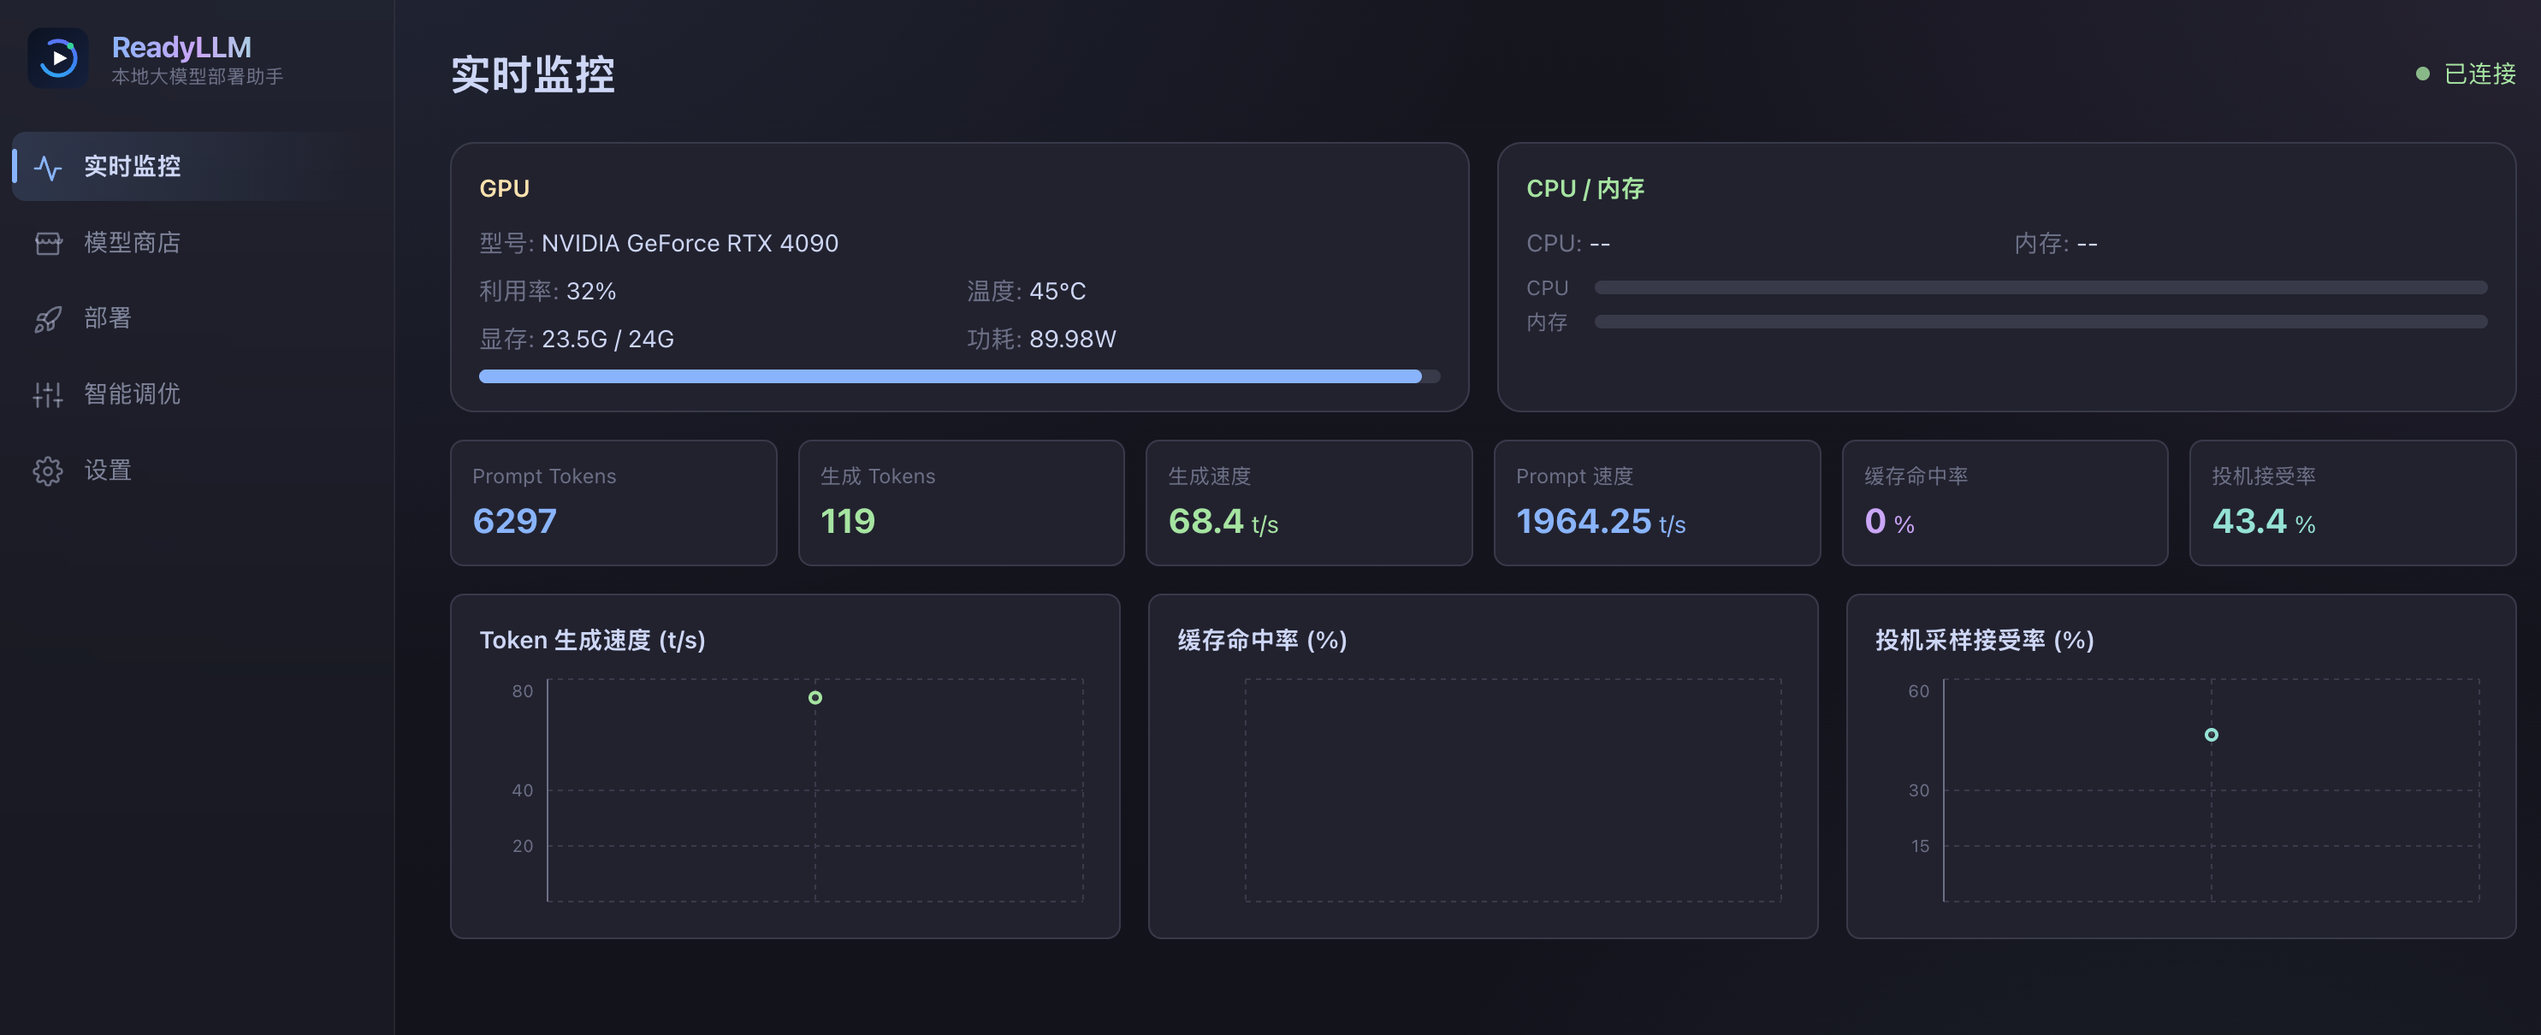
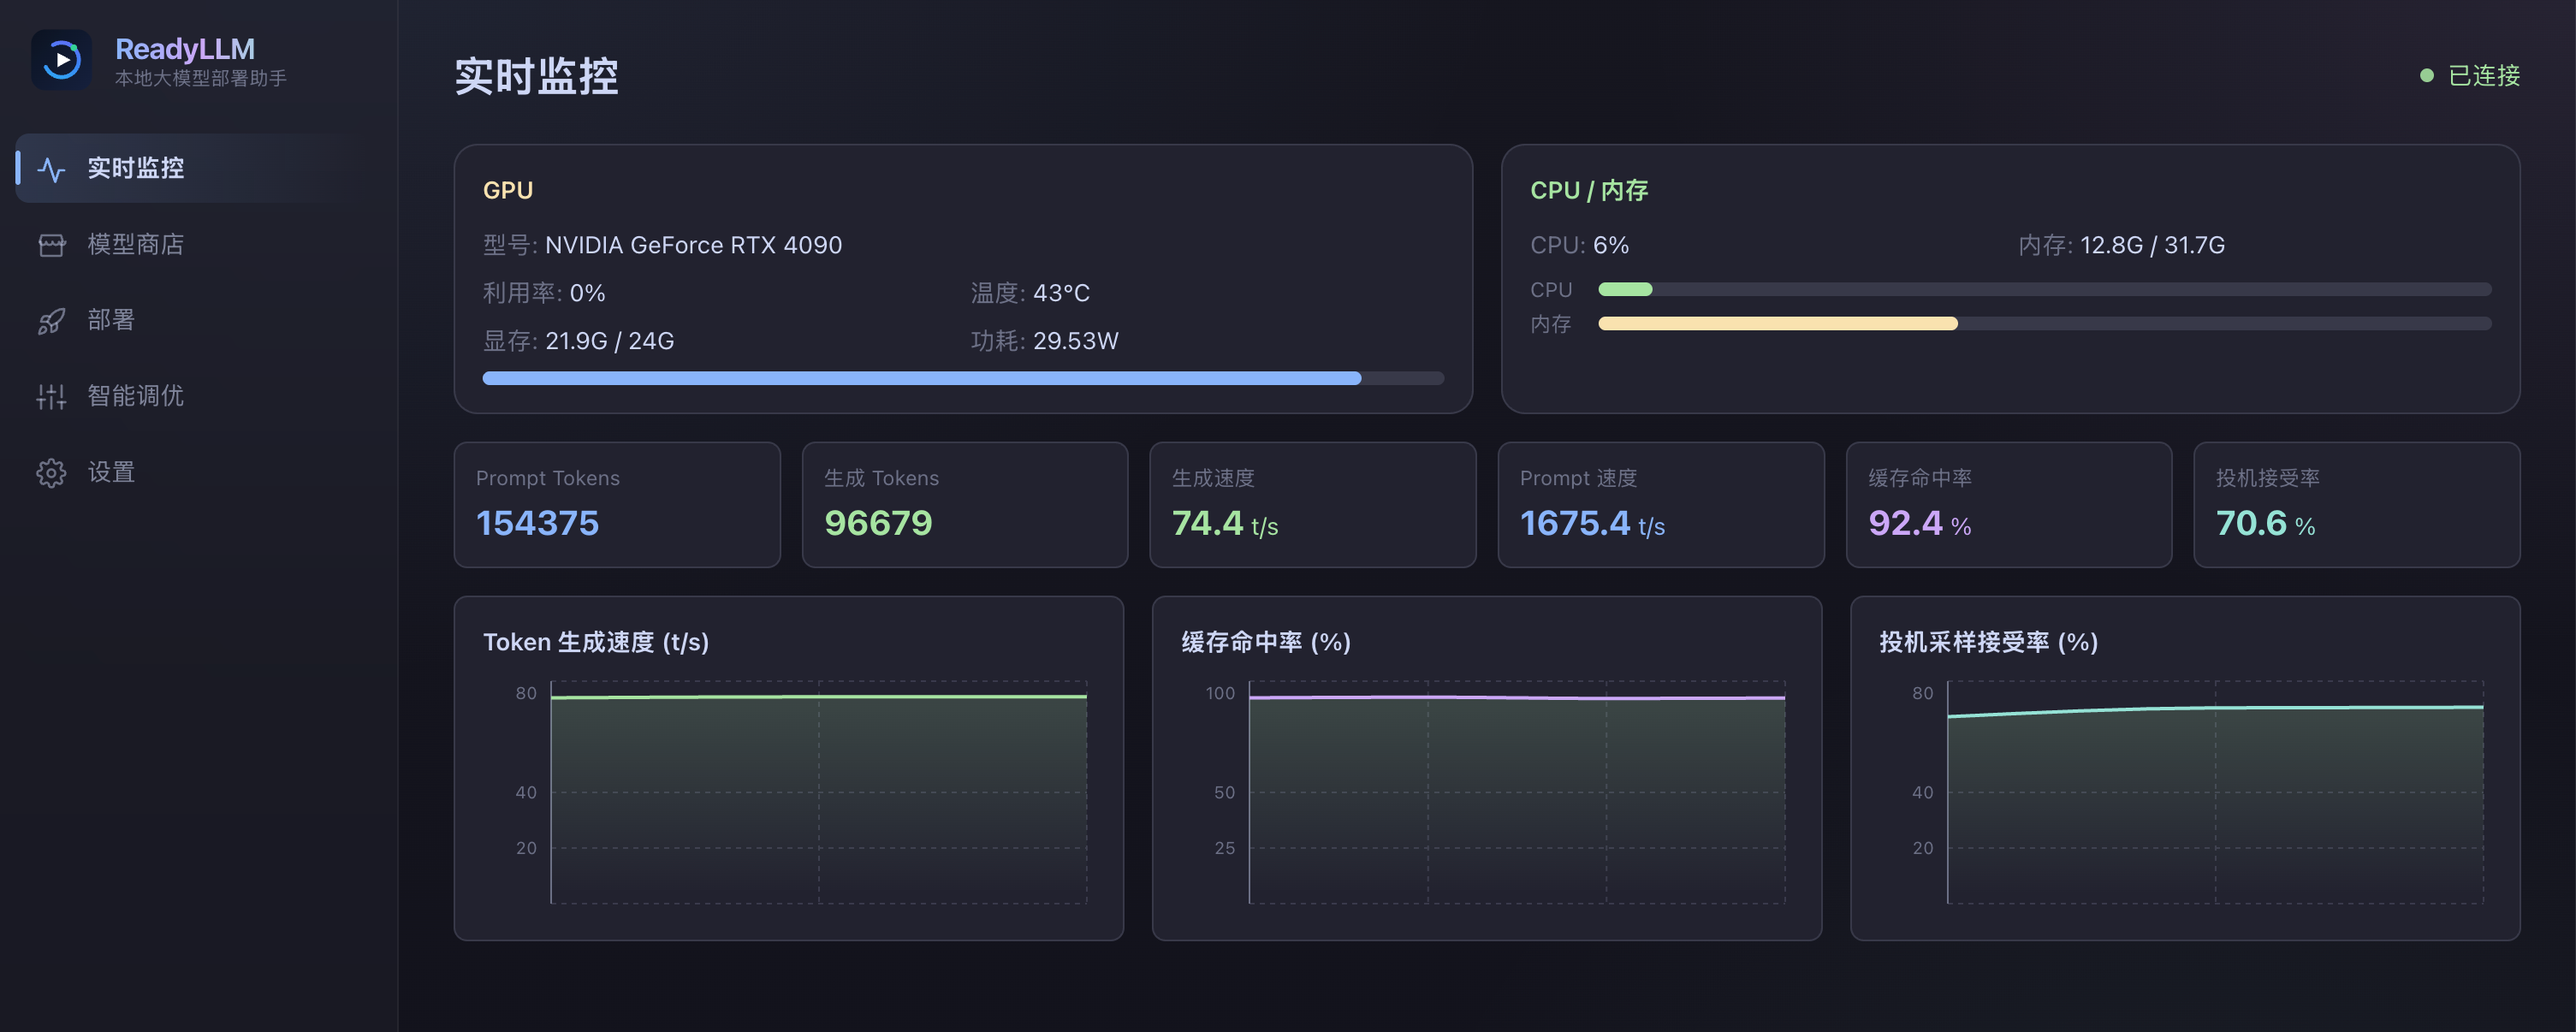
fix: 监控采集间隔改为10s，描点逻辑改为值变化才描点，更新监控截图

diff --git a/frontend/src/pages/Monitor.jsx b/frontend/src/pages/Monitor.jsx
@@ -1,6 +1,6 @@
 import { useWebSocket } from '../hooks/useWebSocket'
 import { XAxis, YAxis, CartesianGrid, Tooltip, ResponsiveContainer, Area, AreaChart } from 'recharts'
-import { useRef } from 'react'
+import { useState, useEffect } from 'react'
 
 const MAX_POINTS = 60
 
@@ -47,43 +47,31 @@ export default function Monitor({ targetId }) {
   const { data, connected } = useWebSocket(
     targetId ? `ws://localhost:8000/api/monitor/ws?target_id=${targetId}` : ''
   )
-  const historyRef = useRef({ speed: [], cache: [], spec: [] })
-  const lastRef = useRef({ completion_tokens: 0, prompt_tokens: 0 })
+  const [history, setHistory] = useState({ speed: [], cache: [], spec: [] })
 
   // 切换目标机器时清空历史
-  const curTargetRef = useRef(targetId)
-  if (curTargetRef.current !== targetId) {
-    curTargetRef.current = targetId
-    historyRef.current = { speed: [], cache: [], spec: [] }
-    lastRef.current = { completion_tokens: 0, prompt_tokens: 0 }
-  }
+  useEffect(() => {
+    setHistory({ speed: [], cache: [], spec: [] })
+  }, [targetId])
 
-  // 只在累计值变化时追加描点
-  if (data?.metrics) {
+  // 每 10s 采集一次；值有变化才追加描点，没变化不描
+  useEffect(() => {
+    if (!data?.metrics) return
     const m = data.metrics
-    const h = historyRef.current
-    const l = lastRef.current
+    setHistory((prev) => {
+      const withPoint = (arr, value) => {
+        if (arr.length > 0 && arr[arr.length - 1].value === value) return arr
+        return [...arr, { idx: arr.length, value }].slice(-MAX_POINTS)
+      }
+      const speed = withPoint(prev.speed, m.completion_speed)
+      const cache = withPoint(prev.cache, m.cache_hit_rate)
+      const spec = withPoint(prev.spec, m.spec_accept_rate)
+      if (speed === prev.speed && cache === prev.cache && spec === prev.spec) return prev
+      return { speed, cache, spec }
+    })
+  }, [data])
 
-    if (m.completion_tokens !== l.completion_tokens && m.completion_speed > 0) {
-      h.speed.push({ idx: h.speed.length, value: m.completion_speed })
-      if (h.speed.length > MAX_POINTS) h.speed.shift()
-    }
-    if (m.prompt_tokens !== l.prompt_tokens && m.cache_hit_rate > 0) {
-      h.cache.push({ idx: h.cache.length, value: m.cache_hit_rate })
-      if (h.cache.length > MAX_POINTS) h.cache.shift()
-    }
-    if (m.spec_accept_rate > 0) {
-      h.spec.push({ idx: h.spec.length, value: m.spec_accept_rate })
-      if (h.spec.length > MAX_POINTS) h.spec.shift()
-    }
-
-    lastRef.current = {
-      completion_tokens: m.completion_tokens,
-      prompt_tokens: m.prompt_tokens,
-    }
-  }
-
-  const h = historyRef.current
+  const h = history
   const gpu = data?.gpu || {}
   const cpuMem = data?.cpu_mem || {}
   const metrics = data?.metrics || {}

diff --git a/backend/app/config.py b/backend/app/config.py
@@ -1,7 +1,7 @@
 """配置（通用项，不含任何特定机器/路径硬编码）"""
 
 # 监控刷新间隔（毫秒）
-REFRESH_INTERVAL = 2000
+REFRESH_INTERVAL = 10000
 
 # 服务监听
 HOST = "127.0.0.1"
